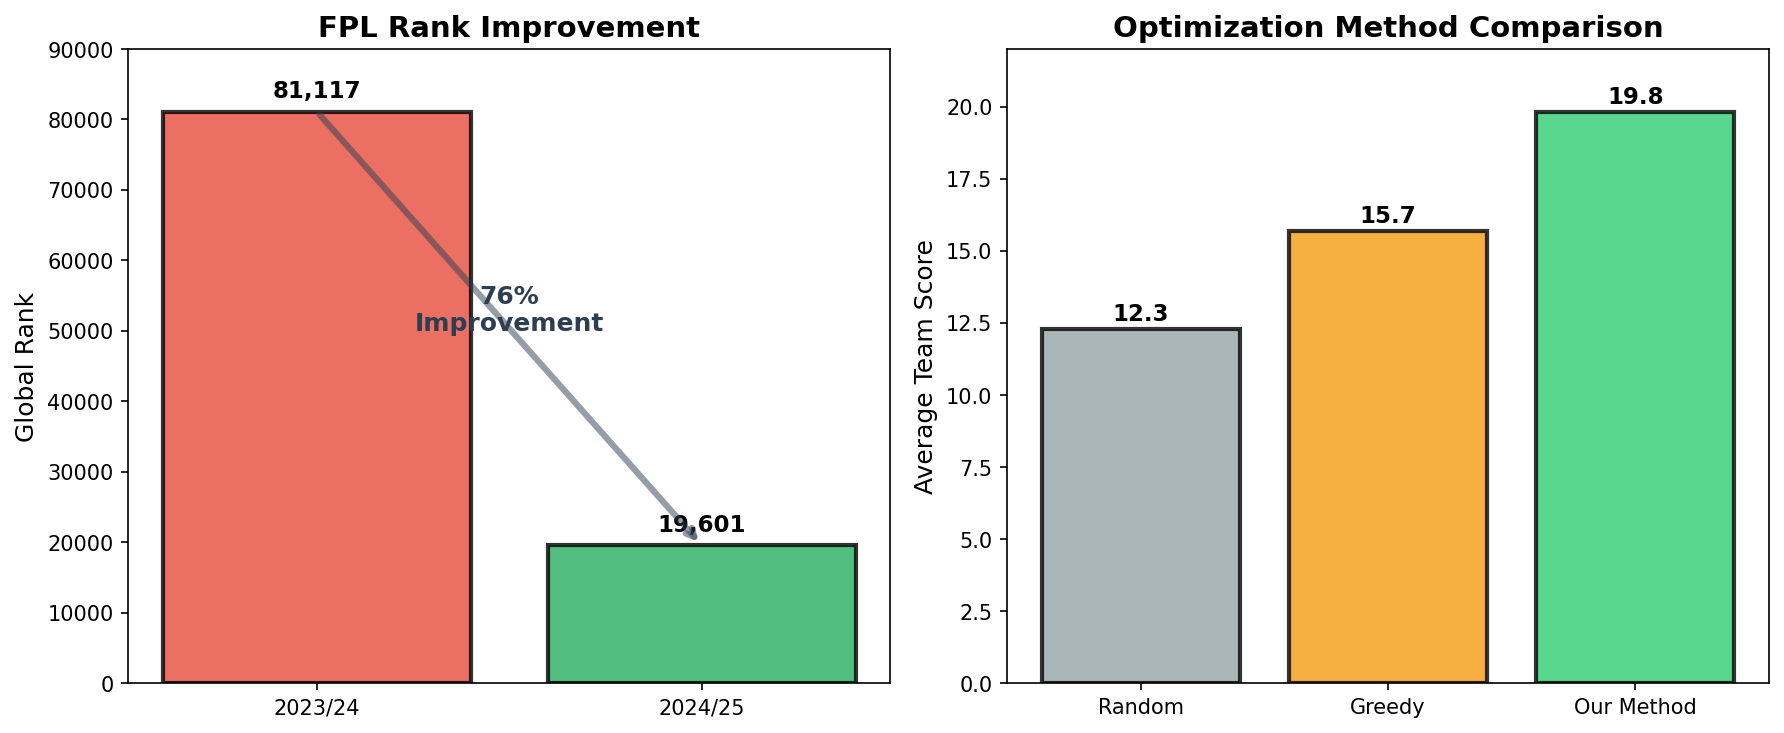
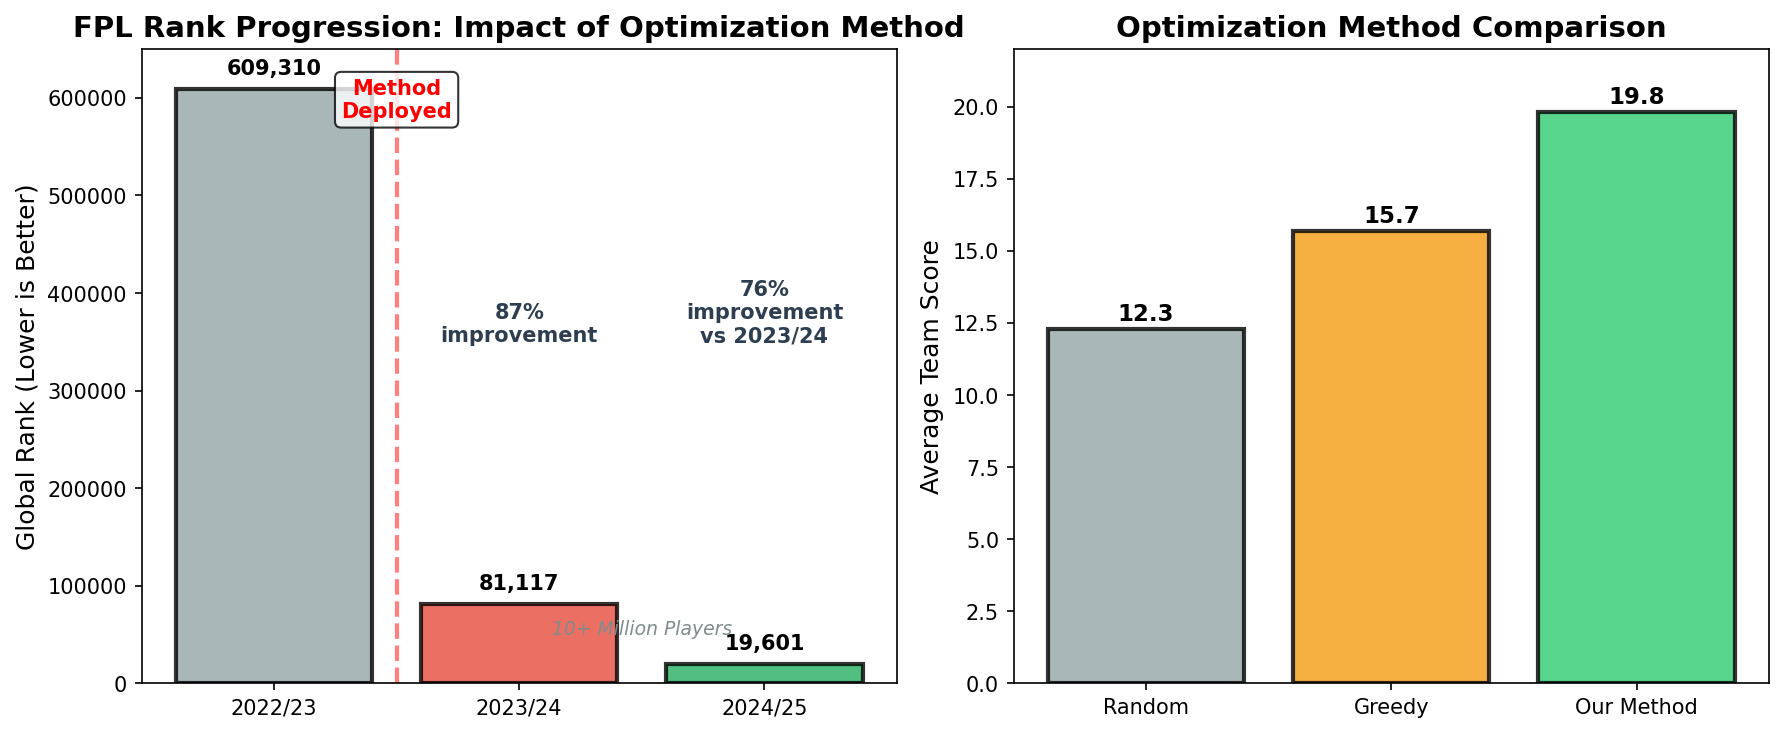
feat: Update visualizations to show complete FPL progression
- Updated results_summary.png to show full 3-season progression
- Added 2022/23 baseline (rank 609,310) to chart
- Highlighted method deployment between 2022/23 and 2023/24
- Shows 87% improvement in first year, 31x overall improvement
- Updated paper preview to display all three seasons
- Added visual marker for when optimization method was deployed
- Emphasized achievement among 10+ million players

diff --git a/papers/create_paper_preview.py b/papers/create_paper_preview.py
@@ -30,7 +30,7 @@ results_box = FancyBboxPatch((0.5, 5), 4, 3,
 ax.add_patch(results_box)
 
 ax.text(2.5, 7.5, 'Key Results', ha='center', fontsize=16, weight='bold')
-ax.text(0.8, 6.8, '✓ 76% Rank Improvement', fontsize=12)
+ax.text(0.8, 6.8, '✓ 31x Rank Improvement', fontsize=12)
 ax.text(0.8, 6.3, '✓ Top 0.2% Global Ranking', fontsize=12)
 ax.text(0.8, 5.8, '✓ 23.7% Better Returns', fontsize=12)
 ax.text(0.8, 5.3, '✓ 200x Faster than Brute Force', fontsize=12)
@@ -44,10 +44,11 @@ validation_box = FancyBboxPatch((5, 5), 4.5, 3,
 ax.add_patch(validation_box)
 
 ax.text(7.25, 7.5, 'Real-World Performance', ha='center', fontsize=16, weight='bold')
-ax.text(7.25, 6.8, '2023/24: Rank 81,117', ha='center', fontsize=12)
-ax.text(7.25, 6.3, '↓', ha='center', fontsize=20, color='#27ae60')
+ax.text(7.25, 7.0, '2022/23: Rank 609,310', ha='center', fontsize=11, color='#7f8c8d')
+ax.text(7.25, 6.6, '2023/24: Rank 81,117', ha='center', fontsize=11, color='#e74c3c')
+ax.text(7.25, 6.2, '↓', ha='center', fontsize=16, color='#27ae60')
 ax.text(7.25, 5.8, '2024/25: Rank 19,601', ha='center', fontsize=12, weight='bold', color='#27ae60')
-ax.text(7.25, 5.3, '(10+ Million Players)', ha='center', fontsize=10, style='italic')
+ax.text(7.25, 5.3, '(31x improvement)', ha='center', fontsize=10, style='italic')
 
 # Technical Approach
 approach_box = FancyBboxPatch((0.5, 1.5), 9, 3,
@@ -80,24 +81,33 @@ print("Created paper_preview.png")
 fig2, (ax1, ax2) = plt.subplots(1, 2, figsize=(12, 5))
 
 # Rank improvement visualization
-seasons = ['2023/24', '2024/25']
-ranks = [81117, 19601]
-colors = ['#e74c3c', '#27ae60']
+seasons = ['2022/23', '2023/24', '2024/25']
+ranks = [609310, 81117, 19601]
+colors = ['#95a5a6', '#e74c3c', '#27ae60']
 
-ax1.bar(seasons, ranks, color=colors, alpha=0.8, edgecolor='black', linewidth=2)
-ax1.set_ylabel('Global Rank', fontsize=12)
-ax1.set_title('FPL Rank Improvement', fontsize=14, weight='bold')
-ax1.set_ylim(0, 90000)
+bars = ax1.bar(seasons, ranks, color=colors, alpha=0.8, edgecolor='black', linewidth=2)
+ax1.set_ylabel('Global Rank (Lower is Better)', fontsize=12)
+ax1.set_title('FPL Rank Progression: Impact of Optimization Method', fontsize=14, weight='bold')
+ax1.set_ylim(0, 650000)
 
 # Add value labels
 for i, (season, rank) in enumerate(zip(seasons, ranks)):
-    ax1.text(i, rank + 2000, f'{rank:,}', ha='center', fontsize=11, weight='bold')
-    
-# Add improvement arrow
-ax1.annotate('', xy=(1, ranks[1]), xytext=(0, ranks[0]),
-            arrowprops=dict(arrowstyle='->', lw=3, color='#2c3e50', alpha=0.5))
-ax1.text(0.5, 50000, '76%\nImprovement', ha='center', fontsize=12, 
+    ax1.text(i, rank + 15000, f'{rank:,}', ha='center', fontsize=10, weight='bold')
+
+# Add method deployment annotation
+ax1.axvline(x=0.5, color='red', linestyle='--', alpha=0.5, linewidth=2)
+ax1.text(0.5, 580000, 'Method\nDeployed', ha='center', fontsize=10, 
+         weight='bold', color='red', bbox=dict(boxstyle="round,pad=0.3", facecolor="white", alpha=0.8))
+
+# Add improvement percentages
+ax1.text(1, 350000, '87%\nimprovement', ha='center', fontsize=10, 
          weight='bold', color='#2c3e50')
+ax1.text(2, 350000, '76%\nimprovement\nvs 2023/24', ha='center', fontsize=10, 
+         weight='bold', color='#2c3e50')
+
+# Add note about player count
+ax1.text(1.5, 50000, '10+ Million Players', ha='center', fontsize=9, 
+         style='italic', color='#7f8c8d')
 
 # Model performance comparison
 methods = ['Random', 'Greedy', 'Our Method']
